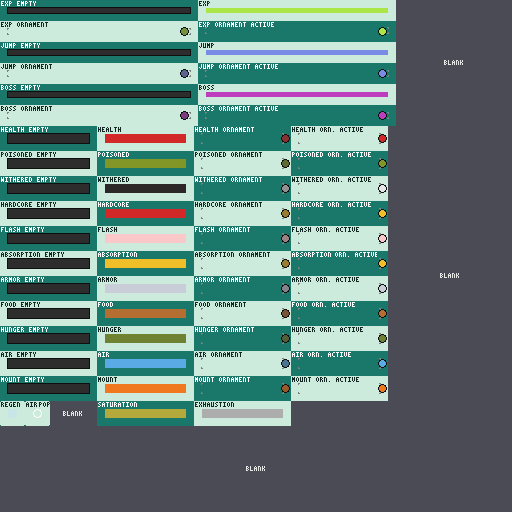
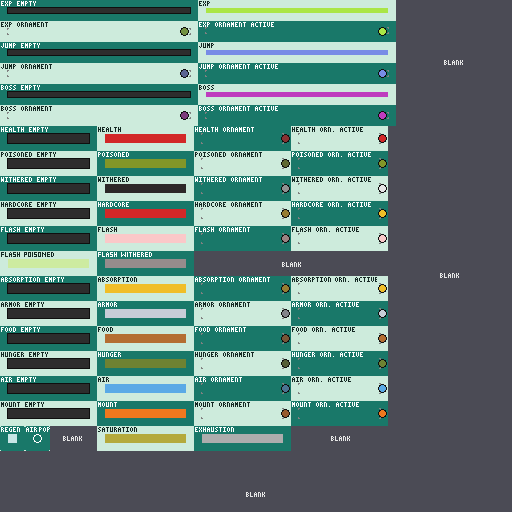
redo this

diff --git a/src/main/java/com/gtnewhorizons/dashboard/client/BarThemes.java b/src/main/java/com/gtnewhorizons/dashboard/client/BarThemes.java
@@ -24,6 +24,7 @@ import com.google.gson.JsonParser;
 import com.gtnewhorizon.gtnhlib.util.ResourceUtil;
 import com.gtnewhorizons.dashboard.Dashboard;
 import com.gtnewhorizons.dashboard.api.HudElement;
+import com.gtnewhorizons.dashboard.client.BarSlot.Layer;
 
 import cpw.mods.fml.relauncher.Side;
 import cpw.mods.fml.relauncher.SideOnly;
@@ -105,20 +106,52 @@ public final class BarThemes {
         return slot.fromRight != HudLayout.isFlipped(element);
     }
 
+    /** The empty bar, the fill, then one ornament: the active one while the bar is full. */
     public static void drawBar(String theme, BarSlot slot, int x, int y, float fraction, boolean fromRight) {
-        drawEmpty(theme, slot, x, y);
-        drawFill(slot, x, y, 0, fraction, fromRight);
+        drawWhole(theme, slot, Layer.EMPTY, x, y);
+        drawFillRange(theme, slot, x, y, 0, fraction, fromRight);
+        drawOrnament(theme, slot, x, y, isFull(slot, fraction));
     }
 
-    public static void drawEmpty(String theme, BarSlot slot, int x, int y) {
+    /**
+     * Health in its state, with the flash row and the health just lost while flashing (flash null when not), and the
+     * hardcore overlay on top. In hardcore, the hardcore ornament replaces the state's.
+     */
+    public static void drawHealth(String theme, BarSlot state, BarSlot flash, int x, int y, float fill, float lastFill,
+        boolean hardcore, boolean fromRight) {
+        drawWhole(theme, flash != null ? BarSlot.HEALTH_FLASH : state, Layer.EMPTY, x, y);
+        if (hardcore) {
+            drawWhole(theme, BarSlot.HEALTH_HARDCORE, Layer.EMPTY, x, y);
+        }
+        if (flash != null) {
+            drawFillRange(theme, flash, x, y, fill, lastFill, fromRight);
+        }
+        drawFillRange(theme, state, x, y, 0, fill, fromRight);
+        if (hardcore) {
+            drawFillRange(theme, BarSlot.HEALTH_HARDCORE, x, y, 0, fill, fromRight);
+        }
+        drawOrnament(theme, hardcore ? BarSlot.HEALTH_HARDCORE : state, x, y, isFull(state, fill));
+    }
+
+    /** A layer drawn with its 8 px space, like the empty bar or a single piece. */
+    public static void drawWhole(String theme, BarSlot slot, Layer layer, int x, int y) {
         bindTexture(theme);
         drawFromSheet(
             x - PADDING,
             y - PADDING,
-            slot.emptyU,
-            slot.emptyV,
+            slot.getU(layer),
+            slot.getV(layer),
             slot.width + PADDING * 2,
             slot.height + PADDING * 2);
+    }
+
+    public static void drawOrnament(String theme, BarSlot slot, int x, int y, boolean active) {
+        drawWhole(theme, slot, active ? Layer.ORNAMENT_ACTIVE : Layer.ORNAMENT, x, y);
+    }
+
+    /** Full once the fill covers every pixel of the bar. */
+    public static boolean isFull(BarSlot slot, float fraction) {
+        return Math.round(MathHelper.clamp_float(fraction, 0, 1) * slot.width) >= slot.width;
     }
 
     /** Overlays like the regen shine sit on a health bar, since on their own they would mean nothing. */
@@ -128,10 +161,10 @@ public final class BarThemes {
                 drawBar(theme, BarSlot.HEALTH, x, y, PREVIEW_FILL, fromRight);
                 drawRegenShine(theme, x, y, getSampleRegenStep(), fromRight);
             }
-            case HEALTH_HARDCORE -> {
-                drawBar(theme, BarSlot.HEALTH, x, y, PREVIEW_FILL, fromRight);
-                drawEmpty(theme, BarSlot.HEALTH_HARDCORE, x, y);
-            }
+            case HEALTH_HARDCORE -> drawHealth(theme, BarSlot.HEALTH, null, x, y, PREVIEW_FILL, 0, true, fromRight);
+            case HEALTH_FLASH -> drawFlashSample(theme, BarSlot.HEALTH, x, y, fromRight);
+            case HEALTH_FLASH_POISONED -> drawFlashSample(theme, BarSlot.HEALTH_POISONED, x, y, fromRight);
+            case HEALTH_FLASH_WITHERED -> drawFlashSample(theme, BarSlot.HEALTH_WITHERED, x, y, fromRight);
             case AIR_POP -> {
                 drawBar(theme, BarSlot.AIR, x, y, PREVIEW_FILL, fromRight);
                 drawAirPop(theme, x, y, PREVIEW_FILL, fromRight);
@@ -142,6 +175,11 @@ public final class BarThemes {
             }
             default -> drawBar(theme, slot, x, y, PREVIEW_FILL, fromRight);
         }
+    }
+
+    /** The rest of the bar shows as just lost. */
+    private static void drawFlashSample(String theme, BarSlot state, int x, int y, boolean fromRight) {
+        drawHealth(theme, state, state.getFlashFill(), x, y, PREVIEW_FILL, 1, false, fromRight);
     }
 
     /** From the clock, since samples have no game ticks. */
@@ -161,7 +199,7 @@ public final class BarThemes {
         }
         int offset = step * 8;
         int x = fromRight ? barX + BarSlot.HEALTH.width - BarSlot.HEALTH_REGEN.width - offset : barX + offset;
-        drawEmpty(theme, BarSlot.HEALTH_REGEN, x, barY);
+        drawWhole(theme, BarSlot.HEALTH_REGEN, Layer.EMPTY, x, barY);
     }
 
     public static void drawAirPop(String theme, int barX, int barY, float fill, boolean fromRight) {
@@ -169,7 +207,7 @@ public final class BarThemes {
         int pop = BarSlot.AIR_POP.width;
         int edge = Math.min(Math.round(MathHelper.clamp_float(fill, 0, 1) * width), width - pop);
         int x = fromRight ? barX + width - edge - pop : barX + edge;
-        drawEmpty(theme, BarSlot.AIR_POP, x, barY);
+        drawWhole(theme, BarSlot.AIR_POP, Layer.EMPTY, x, barY);
     }
 
     /** Only part of the fill, like the health lost in a damage flash. */
@@ -194,7 +232,13 @@ public final class BarThemes {
             return;
         }
         int offset = fromRight ? slot.width - end : start;
-        drawFromSheet(x + offset, y, slot.fullU + PADDING + offset, slot.fullV + PADDING, end - start, slot.height);
+        drawFromSheet(
+            x + offset,
+            y,
+            slot.getU(Layer.FULL) + PADDING + offset,
+            slot.getV(Layer.FULL) + PADDING,
+            end - start,
+            slot.height);
     }
 
     private static void drawFromSheet(int x, int y, int u, int v, int width, int height) {

diff --git a/src/main/java/com/gtnewhorizons/dashboard/client/BarSlot.java b/src/main/java/com/gtnewhorizons/dashboard/client/BarSlot.java
@@ -6,57 +6,95 @@ import java.util.List;
 import com.gtnewhorizons.dashboard.compat.AppleCoreCompat;
 
 /**
- * Where each bar sits on a theme sheet (512 x 512). Slots have 8 px of space around the bar for flair, like outlines or
- * glow.
+ * Where each bar sits on a theme sheet (512 x 512), see docs/theme_template.png. Every slot is the bar plus 8px of
+ * space around it for flair.
  */
 public enum BarSlot {
 
-    // empty u, v / full u, v / bar width, height / fills from the right, like vanilla's right side rows
-    EXPERIENCE(0, 0, 198, 0, 182, 5, false),
-    JUMP_BAR(0, 21, 198, 21, 182, 5, false),
-    BOSS_HEALTH(0, 42, 198, 42, 182, 5, false),
-    HEALTH(0, 63, 97, 63, 81, 9, false),
-    HEALTH_POISONED(0, 63, 0, 138, 81, 9, false),
-    HEALTH_WITHERED(0, 63, 97, 138, 81, 9, false),
-    HEALTH_ABSORPTION(0, 63, 194, 138, 81, 9, false),
-    ARMOR(194, 63, 291, 63, 81, 9, false),
-    FOOD(0, 88, 97, 88, 81, 9, true),
-    FOOD_HUNGER(0, 88, 291, 138, 81, 9, true),
-    AIR(194, 88, 291, 88, 81, 9, true),
-    MOUNT_HEALTH(0, 113, 97, 113, 81, 9, true),
-    HEALTH_FLASH_EMPTY(0, 163, 97, 63, 81, 9, false),
-    HEALTH_FLASH(0, 163, 97, 163, 81, 9, false),
-    HEALTH_FLASH_POISONED(0, 163, 194, 163, 81, 9, false),
-    HEALTH_FLASH_WITHERED(0, 163, 291, 163, 81, 9, false),
-    HEALTH_HARDCORE(97, 188, 97, 188, 81, 9, false),
-    FOOD_SATURATION(0, 238, 0, 238, 81, 9, true),
-    FOOD_EXHAUSTION(97, 238, 97, 238, 81, 9, true),
+    // u, v / bar width, height / fills from the right / wide
+    EXPERIENCE(0, 0, 182, 5, false, true),
+    JUMP_BAR(0, 42, 182, 5, false, true),
+    BOSS_HEALTH(0, 84, 182, 5, false, true),
+    HEALTH(0, 126, 81, 9, false, false),
+    HEALTH_POISONED(0, 151, 81, 9, false, false),
+    HEALTH_WITHERED(0, 176, 81, 9, false, false),
+    HEALTH_HARDCORE(0, 201, 81, 9, false, false),
+    HEALTH_FLASH(0, 226, 81, 9, false, false),
+    HEALTH_ABSORPTION(0, 276, 81, 9, false, false),
+    ARMOR(0, 301, 81, 9, false, false),
+    FOOD(0, 326, 81, 9, true, false),
+    FOOD_HUNGER(0, 351, 81, 9, true, false),
+    AIR(0, 376, 81, 9, true, false),
+    MOUNT_HEALTH(0, 401, 81, 9, true, false),
 
-    HEALTH_REGEN(0, 188, 0, 188, 9, 9, false),
-    AIR_POP(25, 188, 25, 188, 9, 9, true);
+    HEALTH_FLASH_POISONED(0, 251, 81, 9, false),
+    HEALTH_FLASH_WITHERED(97, 251, 81, 9, false),
+    HEALTH_REGEN(0, 426, 9, 9, false),
+    AIR_POP(25, 426, 9, 9, true),
+    FOOD_SATURATION(97, 426, 81, 9, true),
+    FOOD_EXHAUSTION(194, 426, 81, 9, true);
 
-    public final int emptyU;
-    public final int emptyV;
-    public final int fullU;
-    public final int fullV;
+    public enum Layer {
+        EMPTY,
+        FULL,
+        ORNAMENT,
+        ORNAMENT_ACTIVE
+    }
+
+    private static final int ROW_SLOT_WIDTH = 97;
+    private static final int WIDE_SLOT_WIDTH = 198;
+    private static final int WIDE_SLOT_HEIGHT = 21;
+
+    private final int u;
+    private final int v;
     public final int width;
     public final int height;
     public final boolean fromRight;
+    private final boolean wide;
+    private final boolean single;
 
-    BarSlot(int emptyU, int emptyV, int fullU, int fullV, int width, int height, boolean fromRight) {
-        this.emptyU = emptyU;
-        this.emptyV = emptyV;
-        this.fullU = fullU;
-        this.fullV = fullV;
+    BarSlot(int u, int v, int width, int height, boolean fromRight, boolean wide) {
+        this(u, v, width, height, fromRight, wide, false);
+    }
+
+    BarSlot(int u, int v, int width, int height, boolean fromRight) {
+        this(u, v, width, height, fromRight, false, true);
+    }
+
+    BarSlot(int u, int v, int width, int height, boolean fromRight, boolean wide, boolean single) {
+        this.u = u;
+        this.v = v;
         this.width = width;
         this.height = height;
         this.fromRight = fromRight;
+        this.wide = wide;
+        this.single = single;
+    }
+
+    /** The slot's top left corner, with its 8px space. */
+    public int getU(Layer layer) {
+        if (single) {
+            return u;
+        }
+        return wide ? u + layer.ordinal() % 2 * WIDE_SLOT_WIDTH : u + layer.ordinal() * ROW_SLOT_WIDTH;
+    }
+
+    public int getV(Layer layer) {
+        return wide ? v + layer.ordinal() / 2 * WIDE_SLOT_HEIGHT : v;
+    }
+
+    public BarSlot getFlashFill() {
+        return switch (this) {
+            case HEALTH_POISONED -> HEALTH_FLASH_POISONED;
+            case HEALTH_WITHERED -> HEALTH_FLASH_WITHERED;
+            default -> HEALTH_FLASH;
+        };
     }
 
     public BarSlot[] getStates() {
         return switch (this) {
-            case HEALTH -> new BarSlot[] { HEALTH_POISONED, HEALTH_WITHERED, HEALTH_ABSORPTION, HEALTH_FLASH_EMPTY,
-                HEALTH_FLASH, HEALTH_FLASH_POISONED, HEALTH_FLASH_WITHERED, HEALTH_REGEN, HEALTH_HARDCORE };
+            case HEALTH -> new BarSlot[] { HEALTH_POISONED, HEALTH_WITHERED, HEALTH_ABSORPTION, HEALTH_FLASH,
+                HEALTH_FLASH_POISONED, HEALTH_FLASH_WITHERED, HEALTH_REGEN, HEALTH_HARDCORE };
             case FOOD -> getFoodStates();
             case AIR -> new BarSlot[] { AIR_POP };
             default -> new BarSlot[0];

diff --git a/src/main/java/com/gtnewhorizons/dashboard/client/VanillaHudElements.java b/src/main/java/com/gtnewhorizons/dashboard/client/VanillaHudElements.java
@@ -262,7 +262,6 @@ public final class VanillaHudElements {
             case HEALTH_ABSORPTION -> drawIconRowPreview(x, y, false, 16, 160, 169, 0);
             case FOOD_HUNGER -> drawIconRowPreview(x, y, true, 133, 88, 97, 27);
             case AIR_POP -> drawIconRowPreview(x, y, true, -1, 16, 25, 18);
-            case HEALTH_FLASH_EMPTY -> drawIconRowPreview(x, y, false, 25, 52, 61, 0);
             case HEALTH_FLASH -> drawIconRowPreview(x, y, false, 25, 70, 79, 0);
             case HEALTH_FLASH_POISONED -> drawIconRowPreview(x, y, false, 25, 106, 115, 0);
             case HEALTH_FLASH_WITHERED -> drawIconRowPreview(x, y, false, 25, 142, 151, 0);
@@ -577,7 +576,7 @@ public final class VanillaHudElements {
         return true;
     }
 
-    /** With its shake, flash, regeneration, hardcore overlay and the absorption bar above it. */
+    /** With its shake, flash, regeneration and the absorption bar above it. */
     private static void drawThemedHealth(Minecraft mc, String theme, int x, int barY, float fill, float absorption,
         boolean fromRight) {
         EntityPlayer player = mc.thePlayer;
@@ -585,21 +584,20 @@ public final class VanillaHudElements {
             barY += getLowHealthShake(mc);
         }
         BarSlot stateSlot = getStateSlot(BarSlot.HEALTH, player);
-        if (isHealthFlashing(player)) {
-            float lastFill = player.prevHealth / player.getMaxHealth();
-            BarThemes.drawEmpty(theme, BarSlot.HEALTH_FLASH_EMPTY, x, barY);
-            BarThemes.drawFillRange(theme, getFlashSlot(stateSlot), x, barY, fill, lastFill, fromRight);
-            BarThemes.drawFillRange(theme, stateSlot, x, barY, 0, fill, fromRight);
-        } else {
-            BarThemes.drawBar(theme, stateSlot, x, barY, fill, fromRight);
-        }
+        BarThemes.drawHealth(
+            theme,
+            stateSlot,
+            isHealthFlashing(player) ? stateSlot.getFlashFill() : null,
+            x,
+            barY,
+            fill,
+            player.prevHealth / player.getMaxHealth(),
+            mc.theWorld.getWorldInfo()
+                .isHardcoreModeEnabled(),
+            fromRight);
         if (player.isPotionActive(Potion.regeneration)) {
             int step = BarThemes.getRegenStep(mc.ingameGUI.getUpdateCounter());
             BarThemes.drawRegenShine(theme, x, barY, step, fromRight);
-        }
-        if (mc.theWorld.getWorldInfo()
-            .isHardcoreModeEnabled()) {
-            BarThemes.drawEmpty(theme, BarSlot.HEALTH_HARDCORE, x, barY);
         }
         if (absorption > 0) {
             float absorptionFill = Math.min(1, absorption / player.getMaxHealth());
@@ -655,12 +653,15 @@ public final class VanillaHudElements {
         return MathHelper.clamp_float(alpha, 0, 1);
     }
 
+    /** One state at a time, withered over poisoned. Hardcore is drawn over any of them. */
     private static BarSlot getStateSlot(BarSlot slot, EntityPlayer player) {
-        if (slot == BarSlot.HEALTH && player.isPotionActive(Potion.poison)) {
-            return BarSlot.HEALTH_POISONED;
-        }
-        if (slot == BarSlot.HEALTH && player.isPotionActive(Potion.wither)) {
-            return BarSlot.HEALTH_WITHERED;
+        if (slot == BarSlot.HEALTH) {
+            if (player.isPotionActive(Potion.wither)) {
+                return BarSlot.HEALTH_WITHERED;
+            }
+            if (player.isPotionActive(Potion.poison)) {
+                return BarSlot.HEALTH_POISONED;
+            }
         }
         if (slot == BarSlot.FOOD && player.isPotionActive(Potion.hunger)) {
             return BarSlot.FOOD_HUNGER;
@@ -693,14 +694,6 @@ public final class VanillaHudElements {
         }
         SHAKE.setSeed(tick * 312871L);
         return SHAKE.nextInt(3) - 1;
-    }
-
-    private static BarSlot getFlashSlot(BarSlot healthSlot) {
-        return switch (healthSlot) {
-            case HEALTH_POISONED -> BarSlot.HEALTH_FLASH_POISONED;
-            case HEALTH_WITHERED -> BarSlot.HEALTH_FLASH_WITHERED;
-            default -> BarSlot.HEALTH_FLASH;
-        };
     }
 
     /** These events fire even when nothing is drawn: no boss nearby, in creative, no armor, or not underwater. */
